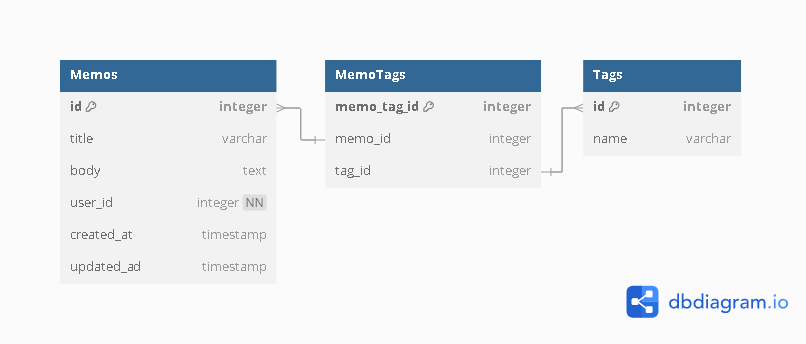
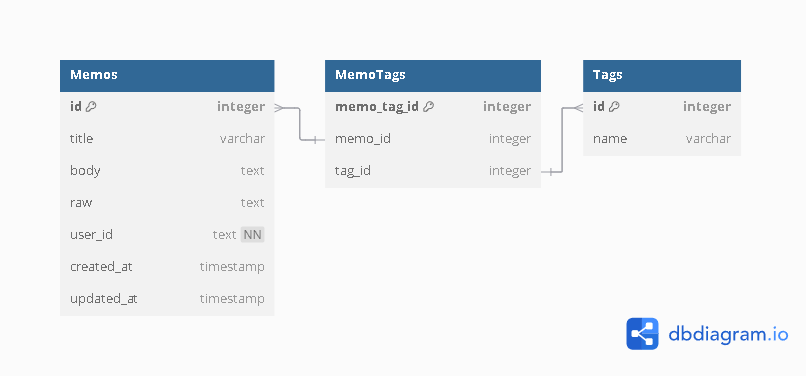
docs: req, resbody

diff --git a/docs/endpoint.md b/docs/endpoint.md
@@ -123,6 +123,18 @@ http://localhost:8000
     - 403: ユーザ情報が不正
     - 422: リクエストが不正
 
+## 認証関係 
+### 'POST /auth'
+- **説明**: ユーザIDからトークン(期限1日)を発行
+- **リクエスト**:
+    - **ヘッダ**:
+        - Null
+    - **ボディ**:
+        - ユーザID
+- **レスポンス**: 
+    - 200: トークン
+    - 422: リクエストが不正
+
 ### 補足
 - タグはメモと紐つかない限りユーザに何も提供できないので、GET以外はフロントで使わない想定
 - 代わりに、追加・編集・削除は'POST /memos/', 'PUT /memos/{memo_id}', 'DELETE /memos/{memo_id}'の内部アルゴリズムで行う
